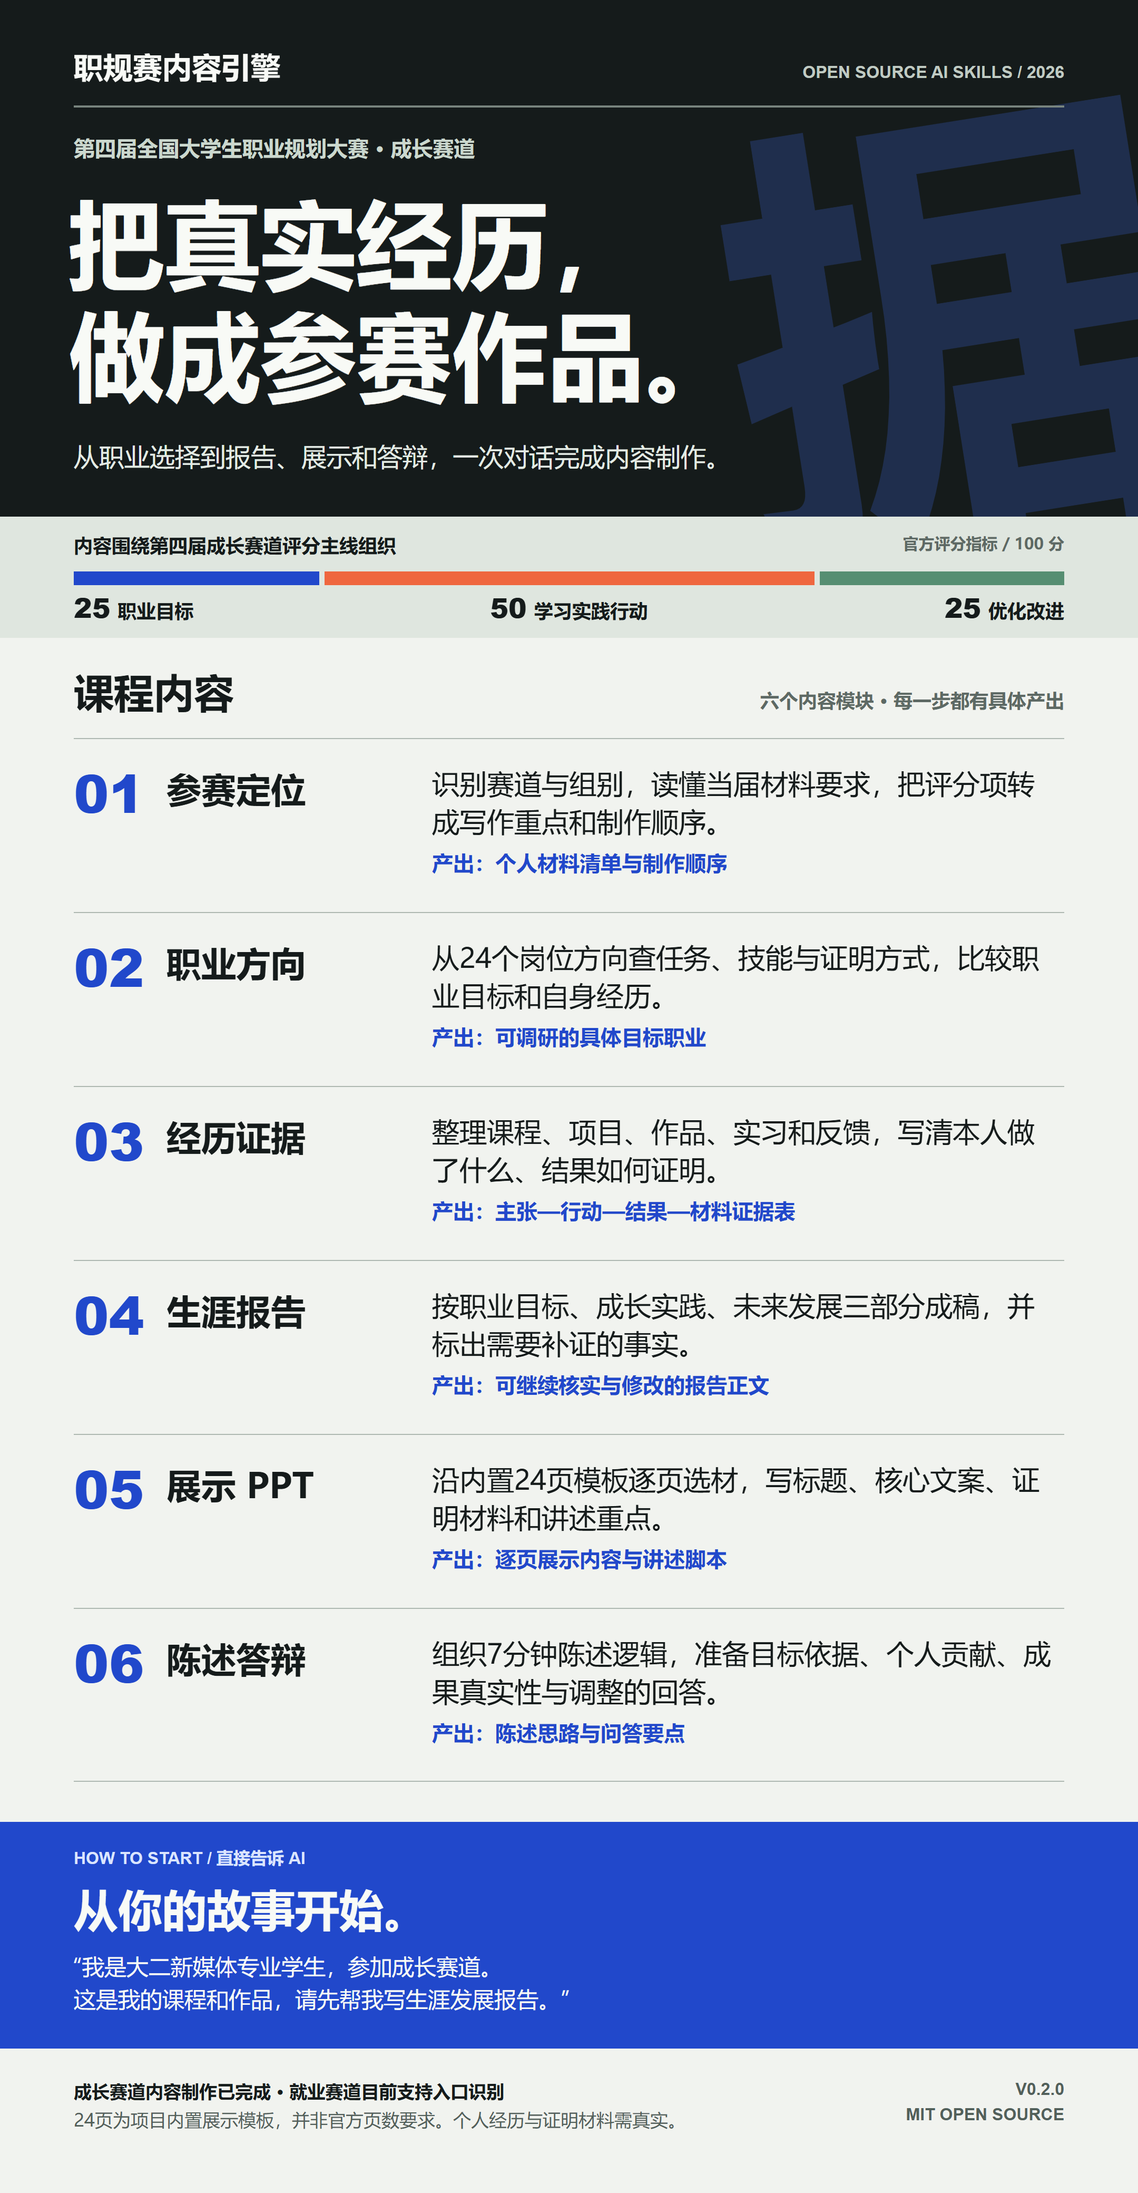
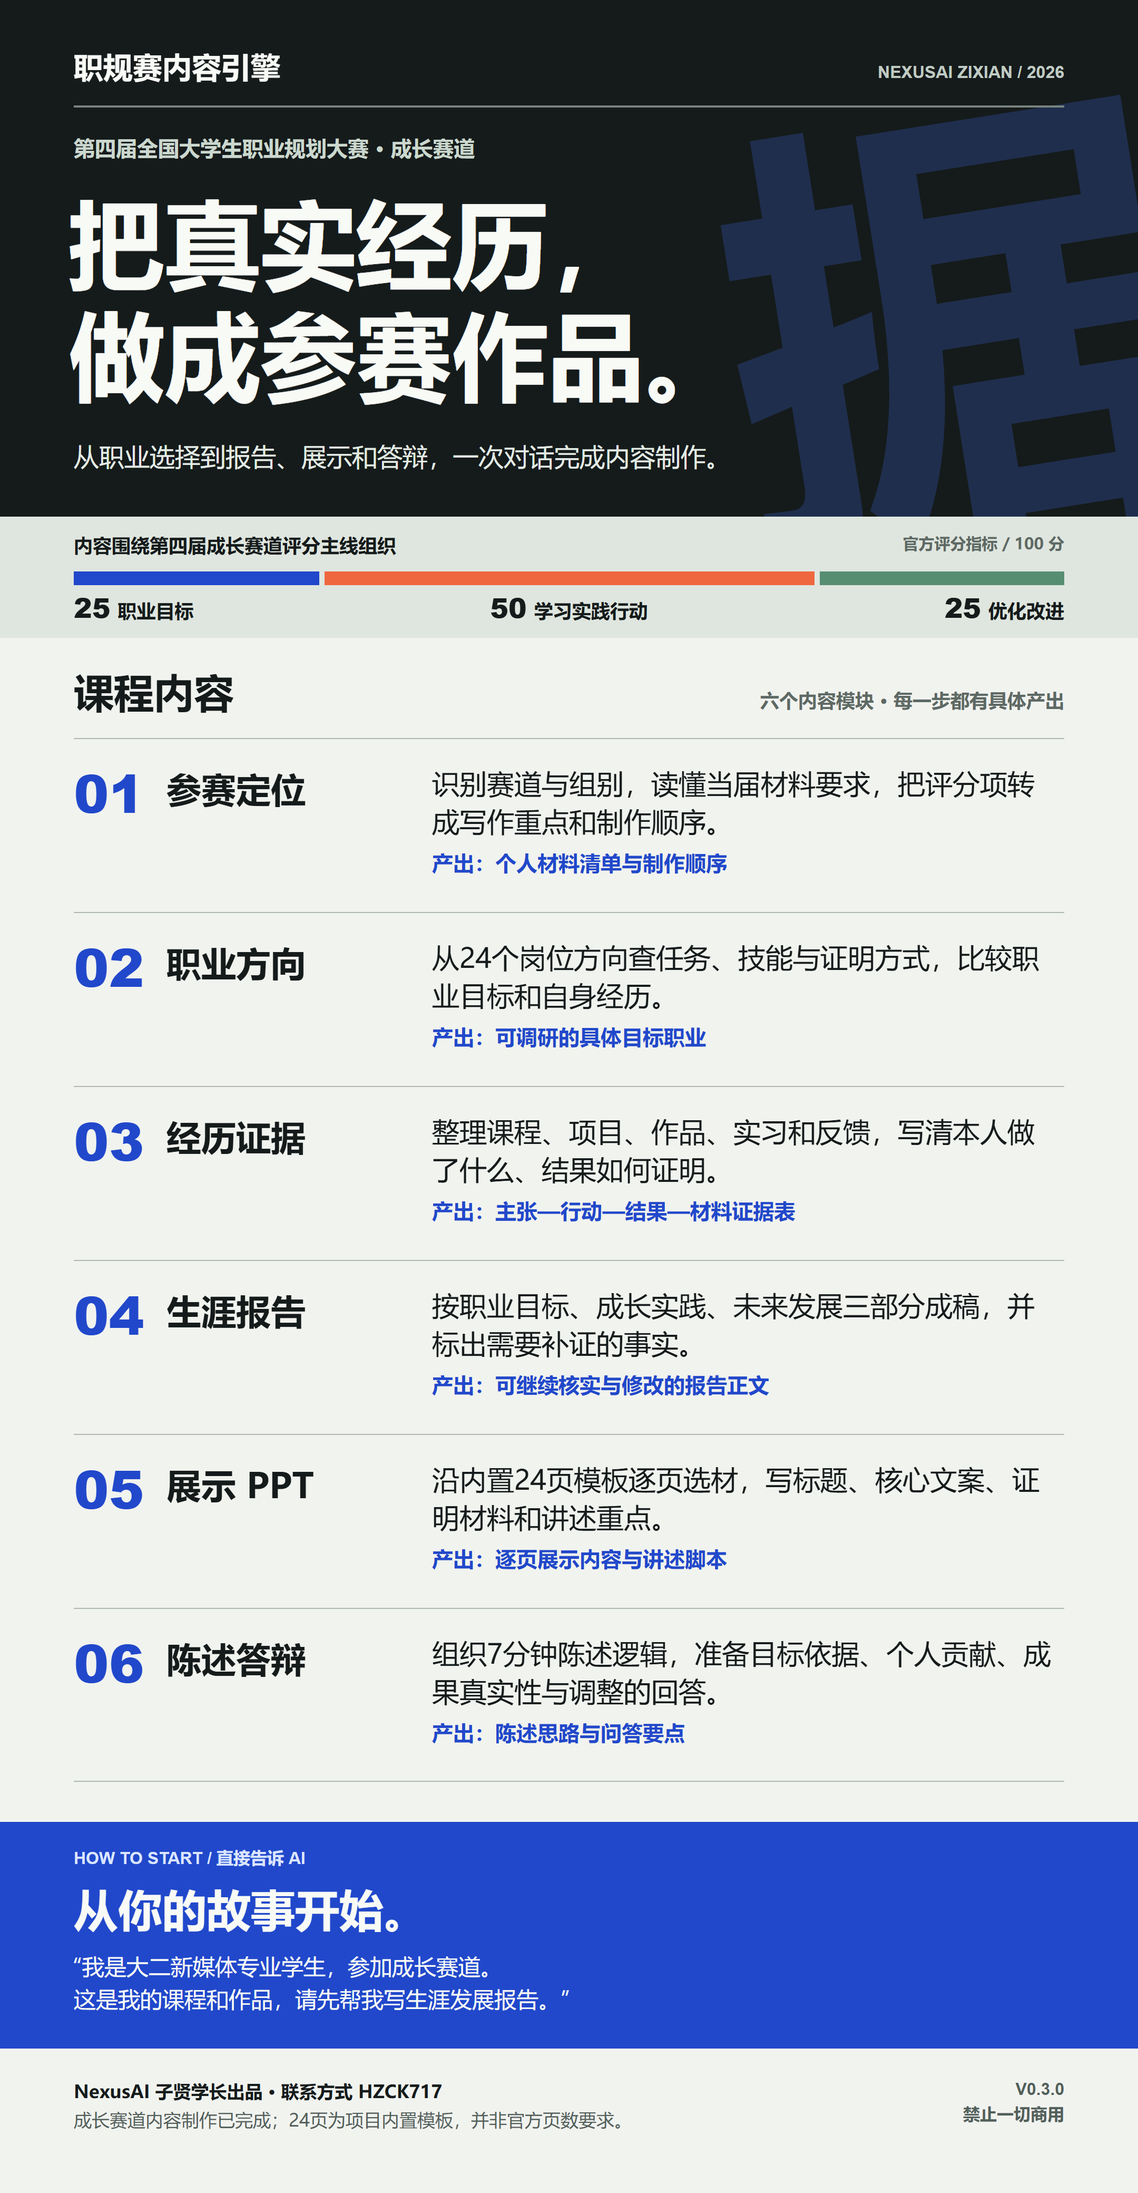
Brand skills and restrict commercial use

Changed region(s): [[0.062, 0.9375, 0.4653, 0.9688], [0.8375, 0.9375, 0.9306, 0.9688], [0.4963, 0.9375, 0.5583, 0.9688]]

diff --git a/media/career-skills-poster.html b/media/career-skills-poster.html
@@ -52,7 +52,7 @@
 <body>
   <main class="poster" role="img" aria-label="职规赛内容引擎课程内容介绍：参赛定位、职业方向、经历证据、生涯报告、展示PPT、陈述答辩六个内容模块">
     <header class="hero">
-      <div class="mast"><b>职规赛内容引擎</b><span>OPEN SOURCE AI SKILLS / 2026</span></div>
+      <div class="mast"><b>职规赛内容引擎</b><span>NEXUSAI ZIXIAN / 2026</span></div>
       <div class="edition">第四届全国大学生职业规划大赛 · 成长赛道</div>
       <div class="hero-glyph" aria-hidden="true">据</div>
       <h1>把真实经历，<br>做成参赛作品。</h1>
@@ -73,7 +73,7 @@
       <div class="module"><div class="num">06</div><h3>陈述答辩</h3><div><p>组织7分钟陈述逻辑，准备目标依据、个人贡献、成果真实性与调整的回答。</p><span class="output">产出：陈述思路与问答要点</span></div></div>
     </section>
     <section class="start"><div class="start-label">HOW TO START / 直接告诉 AI</div><h2>从你的故事开始。</h2><p>“我是大二新媒体专业学生，参加成长赛道。<br>这是我的课程和作品，请先帮我写生涯发展报告。”</p></section>
-    <footer class="footer"><div><strong>成长赛道内容制作已完成 · 就业赛道目前支持入口识别</strong>24页为项目内置展示模板，并非官方页数要求。个人经历与证明材料需真实。</div><span>V0.2.0<br>MIT OPEN SOURCE</span></footer>
+    <footer class="footer"><div><strong>NexusAI 子贤学长出品 · 联系方式 HZCK717</strong>成长赛道内容制作已完成；24页为项目内置模板，并非官方页数要求。</div><span>V0.3.0<br>禁止一切商用</span></footer>
   </main>
   <script>
     const fitPoster = () => { document.body.style.zoom = Math.min(1, innerWidth / 1080); };

diff --git a/scripts/build_package.py b/scripts/build_package.py
@@ -13,11 +13,12 @@ DOCUMENTS = [
     "第四届大赛规则基线.md",
     "历届资料索引与变化.md",
 ]
-DIRECTORIES = ["skills", "media", "scripts", "examples"]
+DIRECTORIES = ["skills", "media", "examples"]
+TOOLS = ["scripts/build_package.py", "scripts/validate_package.py"]
 
 
 def build(version: str) -> Path:
-    files = [ROOT / name for name in DOCUMENTS]
+    files = [ROOT / name for name in [*DOCUMENTS, *TOOLS]]
     files.extend(
         path
         for dirname in DIRECTORIES
@@ -48,6 +49,6 @@ def build(version: str) -> Path:
 
 if __name__ == "__main__":
     parser = argparse.ArgumentParser(description=__doc__)
-    parser.add_argument("--version", default="0.2.0")
+    parser.add_argument("--version", default="0.3.0")
     args = parser.parse_args()
     print(build(args.version))

diff --git a/skills/career-report-layout/references/layout-spec.md b/skills/career-report-layout/references/layout-spec.md
@@ -2,19 +2,23 @@
 
 ## 页面信息顺序
 
-首屏依次为具体目标职业的报告标题、赛道与专业信息、必要的示范或待核说明、两三句开篇结论。随后沿用职业目标、成长实践、未来发展的正文结构。通常不另设封面；2000字报告的首页应直接进入正文。章节名称与内容技能的报告模板保持一致，已有不同结构时遵从用户的成稿。
+默认首屏依次为具体目标职业的报告标题、赛道与专业信息、必要的示范或待核说明、两三句开篇结论。随后沿用职业目标、成长实践、未来发展的正文结构。用户明确要求设计扉页时，可单独制作一页封面：报告名称、目标职业、一句话职业主张、选手姓名与专业阶段、参赛组别必须能快速扫到；缺失的姓名和指导教师留待填写，不编造。虚构示范的性质在封面和正文中持续标明。章节名称与内容技能的报告模板保持一致，已有不同结构时遵从用户的成稿。
+
+## 参考模板的使用边界
+
+用户提供的《成长赛道 创意光谱职规赛模板》提供了封面字段和“职业目标—实践计划—未来规划”的内容框架，也提示在学业、竞赛、实习成果旁放可核查佐证。它本身是一份填写框架，含占位提示、创业方向示例、推广信息及未核实的数据，不应当作可直接提交的事实或成品视觉规范。只借用信息位置与章节功能；视觉上依据用户要求采用简约、留白充分的编辑设计。不要复制模板里的联系方式、品牌标志、口号或无来源数值。
 
 ## 字体与层级
 
-- 主标题用 `Title` 样式，16到18磅、黑色、左对齐或居中；标题必须说明目标职业和文档用途。移除 Word 默认 Title 样式可能带入的蓝线、蓝字和主题色。
+- 无扉页时，主标题用 `Title` 样式，16到18磅、黑色、左对齐或居中；有扉页时，目标职业可用32到40磅作为主视觉，报告名称在其上方清楚标注。标题必须说明目标职业和文档用途。移除 Word 默认 Title 样式可能带入的蓝线、蓝字和主题色。
 - 一级标题12到13磅、黑色粗体；二级标题10.5到11磅、黑色粗体。标题与后续至少一段保持同页，不让单独的标题留在页底。
 - 正文10.5到11磅、黑色中文字体，行距约1.25到1.4倍；首行缩进两个汉字左右。段后留少量空白，不靠密集回车制造节奏。
 - 示范标识、来源说明和页脚可用8.5到9磅深灰色。对比度应能在打印后仍清楚可读。
-- 页码放页脚，页眉若使用，只显示简短文档名称或组别。不要在报告上模拟赛事官方标志。
+- 页码放页脚，页眉若使用，只显示简短文档名称或组别。封面通常不显示页码。不要在报告上模拟赛事官方标志。
 
 ## 页面与证据
 
-按内容自然分页。两页篇幅通常最紧凑，不能为凑页数缩小字体或挤压行距；材料充足时三页也可接受。需要手动分页时，优先放在大节之前，并检查前一页是否留下大片空白。避免一段只剩一行落到下一页。
+按内容自然分页。无封面时两页篇幅通常最紧凑；用户要求扉页时，封面单独计页，正文仍须保持可读，不能为凑页数缩小字体或挤压行距。需要手动分页时，优先放在大节之前，并检查前一页是否留下大片空白。避免一段只剩一行落到下一页。
 
 文字段落承载主叙事。只有岗位要求与个人证据、行动前后数据等需要横向比较时才使用表格或图；三行左右的证据对照表可以作为评委快速定位材料的索引，但不能复制整段正文。图表总数遵从官方限制。不要把完整报告塞进表格、卡片或侧栏。证书缩略图、作品截图应证明正文中的具体主张，避免为填满页面而堆放。
 

diff --git a/skills/career-report-layout/SKILL.md b/skills/career-report-layout/SKILL.md
@@ -1,18 +1,20 @@
 ---
 name: career-report-layout
-description: 为全国大学生职业规划大赛成长赛道的生涯发展报告制作、重排和检查 Word 文档与最终 PDF；专注页面层级、证据呈现、分页和可读性，不代写或虚构个人经历。
+description: 为全国大学生职业规划大赛成长赛道制作、重排和检查生涯发展报告 Word 与 PDF；专注排版，不代写经历。NexusAI子贤学长出品。
 ---
 
 # 成长赛道报告排版
+
+**NexusAI 子贤学长出品 · 联系方式：HZCK717 · 禁止一切商用。**此为 Skill 来源与使用标识，不自动写入学生的参赛材料。完整条款见安装包根目录 `LICENSE`。
 
 当学生已有报告正文，或 `career-growth-content` 已完成内容初稿，而用户要求 Word、PDF、正式版式或排版优化时使用本技能。先读[版式规范](references/layout-spec.md)。本技能处理视觉组织与文件质量，不改变报告的事实、评分逻辑或学生选择的叙事结构；需要改内容时与 `career-growth-content` 配合。
 
 ## 制作与复核
 
 1. 识别标题、开篇、三大部分与子节，让 Word 使用语义段落样式。正文中的证据、个人贡献和反馈仍以原文为准。虚构示范保留醒目标识，不能通过排版把它伪装成真实参赛作品。
-2. 对已有 DOCX，可运行 `python scripts/restyle_report.py 输入.docx 输出.docx` 应用本项目的克制型报告版式；原件保留不覆盖。可用 `--title` 精简过长标题，或在内容适合时用 `--page-break-before "二 成长实践"` 明确分隔页面，但必须看过预览后决定，不能机械套用。确有横向比较价值时，按[虚构表格数据示例](assets/evidence-summary-example.json)提供 `--evidence-json`；只替换成学生真实证据，不复制示例经历。
+2. 对已有 DOCX，可运行 `python scripts/restyle_report.py 输入.docx 输出.docx` 应用本项目的克制型正文版式；原件保留不覆盖。用户要求扉页时，先从学生经历提炼“目标职业—要解决的问题—个人主张”的人物定位，再按[版式规范](references/layout-spec.md)制作单独封面。可用 `--title` 精简过长标题，或在内容适合时用 `--page-break-before "二 成长实践"` 明确分隔页面，但必须看过预览后决定，不能机械套用。确有横向比较价值时，按[虚构表格数据示例](assets/evidence-summary-example.json)提供 `--evidence-json`；只替换成学生真实证据，不复制示例经历。
 3. 新建 DOCX 时使用环境可用的文档制作工具，并按版式规范设置 `Title`、一级标题、二级标题、正文、页码；已有段落不应因为换样式而被截断。生成后统计文字与图表，成长赛道正式报告应符合当届官方限制。DOCX 是可编辑稿，正式提交须另行导出并检查 PDF。
 4. 每页必须实际预览：先用 Word 或 LibreOffice 导出/渲染，检查标题、中文字体、孤行、跨页标题、表格与页码；可用 DOCX 浏览器预览辅助发现问题，但它不能替代最终 PDF 的页面检查。若本机没有可用渲染器，要明确告知用户该限制，不声称排版已完整验证。
 5. 交付 Word 时给出文件，并说明内容是否为示范、是否已完成页面检查。用户还要 PDF 时导出后再次检查文件大小、字数和图表数量。
 
-不做独立封面、花哨渐变、奖牌背景或大片空白。报告要让评委先看清目标、行动与调整，而不是让装饰争夺注意力。
+封面和正文应共享同一套字体、色彩与信息层级；大幅留白必须为职业定位服务，不能遮蔽关键证据。避免花哨渐变、奖牌背景和与职业无关的装饰。

diff --git a/README.md b/README.md
@@ -2,11 +2,13 @@
 
 **让每一段成长，都有证据；让每一份参赛材料，都经得起追问。**
 
-这是一套面向全国大学生职业规划大赛的开放式 AI Skills。学生只要讲出专业、经历和想去的方向，AI 就能沿着评分要求，把散落在课程、项目、作品、实习和反馈里的材料，组织成一条清晰的职业成长叙事：目标怎样确定，能力如何建立，行动带来什么结果，又为何作出调整。
+这是一套面向全国大学生职业规划大赛的源码公开 AI Skills。学生只要讲出专业、经历和想去的方向，AI 就能沿着评分要求，把散落在课程、项目、作品、实习和反馈里的材料，组织成一条清晰的职业成长叙事：目标怎样确定，能力如何建立，行动带来什么结果，又为何作出调整。
+
+**NexusAI 子贤学长出品 · 联系方式：HZCK717 · 禁止一切商用。**本仓库及压缩包中的原创内容遵循[非商业许可](LICENSE)；安装和个人学习可以，付费服务、商业产品及商业推广不得使用。
 
 它把“职业选择、素材提取、评分映射、报告写作、逐页展示、现场陈述”串成一次对话。AI 应先交付可用内容，再指出最关键的事实与证据缺口；每项能力主张都要能回到学生本人做过的事。
 
-**当前版本：v0.2.0，适用第四届规则（2026 年 10 月核对）。**重点完成**成长赛道内容制作与报告排版**。项目独立于赛事主办方；“国赛金奖强度”在这里指内容质量目标，不是获奖保证。
+**当前版本：v0.3.0，适用第四届规则（2026 年 10 月核对）。**重点完成**成长赛道内容制作与报告排版**。项目独立于赛事主办方；“国赛金奖强度”在这里指内容质量目标，不是获奖保证。
 
 ## 它能做什么
 
@@ -52,7 +54,7 @@
 
 Windows 默认位置为 `%USERPROFILE%\.codex\skills\`；如果设置了 `CODEX_HOME`，使用其中的 `skills` 目录。重新打开会话后，可直接用自然语言提出任务，也可显式调用 `$career-competition-guide`、`$career-growth-content` 或 `$career-report-layout`。
 
-下载 ZIP 的用户先解压，再复制其中 `skills/` 下的三个完整文件夹。开发者可运行 `python scripts/validate_package.py` 校验引用，并用 `python scripts/build_package.py --version 0.2.0` 生成发布包。
+下载 ZIP 的用户先解压，再复制其中 `skills/` 下的三个完整文件夹。开发者可运行 `python scripts/validate_package.py` 校验引用，并用 `python scripts/build_package.py --version 0.3.0` 生成发布包。
 
 ## 四种直接用法
 
@@ -118,4 +120,4 @@ skills/
 
 ## 参与共建
 
-欢迎补充职业条目、核实失效来源、改进不同专业的内容指导。请先阅读[贡献指南](CONTRIBUTING.md)。本项目原创内容采用 [MIT License](LICENSE)；链接指向的官方文件、媒体报道和第三方资料各自遵循原权利人的许可。
+欢迎补充职业条目、核实失效来源、改进不同专业的内容指导。请先阅读[贡献指南](CONTRIBUTING.md)。本项目原创内容自 v0.3.0 起采用[非商业许可](LICENSE)，禁止一切商用；链接指向的官方文件、媒体报道和第三方资料各自遵循原权利人的许可。此前 MIT 版本的既有授权不能追溯撤销，因此本项目当前以“源码公开、非商业使用”描述，不称为符合开放源代码定义的开源许可。

diff --git a/skills/career-growth-content/SKILL.md b/skills/career-growth-content/SKILL.md
@@ -1,9 +1,11 @@
 ---
 name: career-growth-content
-description: 为第四届全国大学生职业规划大赛成长赛道选手，依据真实经历直接撰写、修改生涯发展报告、展示PPT文案和现场陈述；不用于就业赛道求职材料。
+description: 为第四届全国大学生职业规划大赛成长赛道选手，依据真实经历制作报告、展示PPT文案和现场陈述；不用于就业赛道。NexusAI子贤学长出品。
 ---
 
 # 成长赛道内容制作
+
+**NexusAI 子贤学长出品 · 联系方式：HZCK717 · 禁止一切商用。**此为 Skill 来源与使用标识，不自动写入学生的参赛材料。完整条款见安装包根目录 `LICENSE`。
 
 帮助参赛者把真实成长经历写成可提交、可陈述、可核验的内容。优先交付用户要求的正文、逐页PPT文案、陈述稿或修改稿；不要只给通用建议、空白框架或评分解释。初次接触且素材不足时，按[学生引导与高水平内容标准](references/student-onboarding.md)解释报告需要什么，邀请学生用自己的话讲故事并提供材料。素材足够后直接写生涯发展报告初稿，标明关键待补事实。成长赛道默认先完成报告内容，再以同一事实底稿制作展示PPT；学生明确指定其他材料时尊重其顺序。
 

diff --git a/skills/career-competition-guide/SKILL.md b/skills/career-competition-guide/SKILL.md
@@ -1,9 +1,11 @@
 ---
 name: career-competition-guide
-description: 引导普通学生准备第四届全国大学生职业规划大赛参赛材料，识别成长或就业赛道、安排材料顺序，并把学生交给对应的内容制作技能。
+description: 引导普通学生准备第四届全国大学生职业规划大赛参赛材料，识别赛道、安排材料顺序并衔接内容制作。NexusAI子贤学长出品。
 ---
 
 # 职业规划大赛学生入口
+
+**NexusAI 子贤学长出品 · 联系方式：HZCK717 · 禁止一切商用。**此为 Skill 来源与使用标识，不自动写入学生的参赛材料。完整条款见安装包根目录 `LICENSE`。
 
 面向首次求助的普通学生，用自然对话识别其赛道、组别与当前材料任务。学生可能只会说“我是某专业学生，想参加职业规划大赛”；不要要求其理解评分表或先准备完整材料清单。已有信息不重复询问，允许学生用故事、语音、简历、证书和草稿提供素材。
 

diff --git a/CONTRIBUTING.md b/CONTRIBUTING.md
@@ -2,6 +2,8 @@
 
 欢迎提交能让学生更快写出真实、具体、可核验材料的改进。
 
+提交原创内容前请阅读[非商业许可](LICENSE)。贡献内容将按本项目当前的非商业条款发布，并保留“NexusAI 子贤学长出品”及联系方式 HZCK717；请确认你有权按此条款提供贡献，不提交第三方受限素材。
+
 ## 修改规则或职业信息
 
 - 修改当届材料要求或评分时，附上官方通知与附件的链接、发布日期，并说明改动影响哪个 Skill 或参考文件。历史标准只用于比较，不覆盖现行规则。
